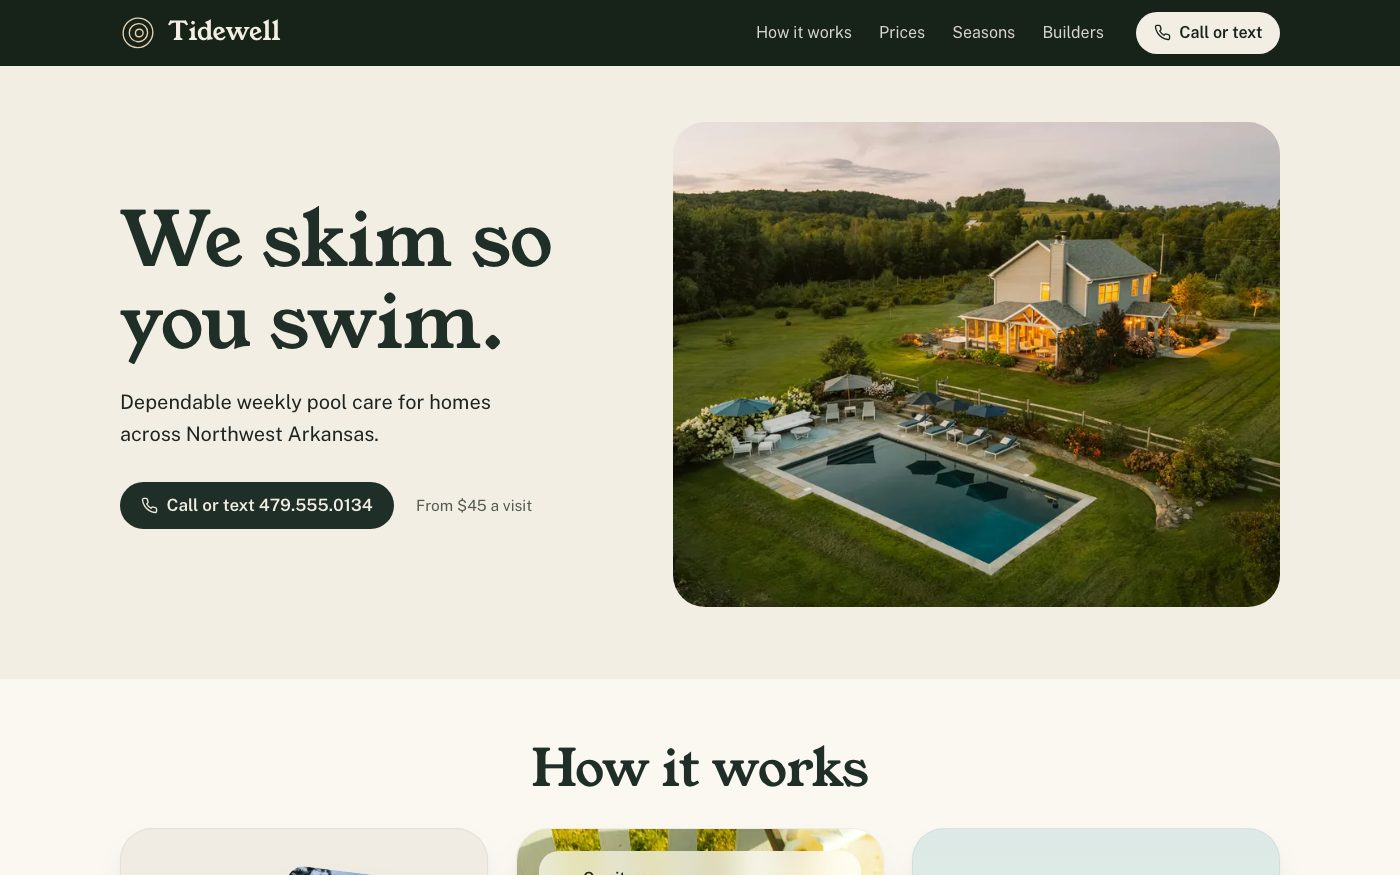
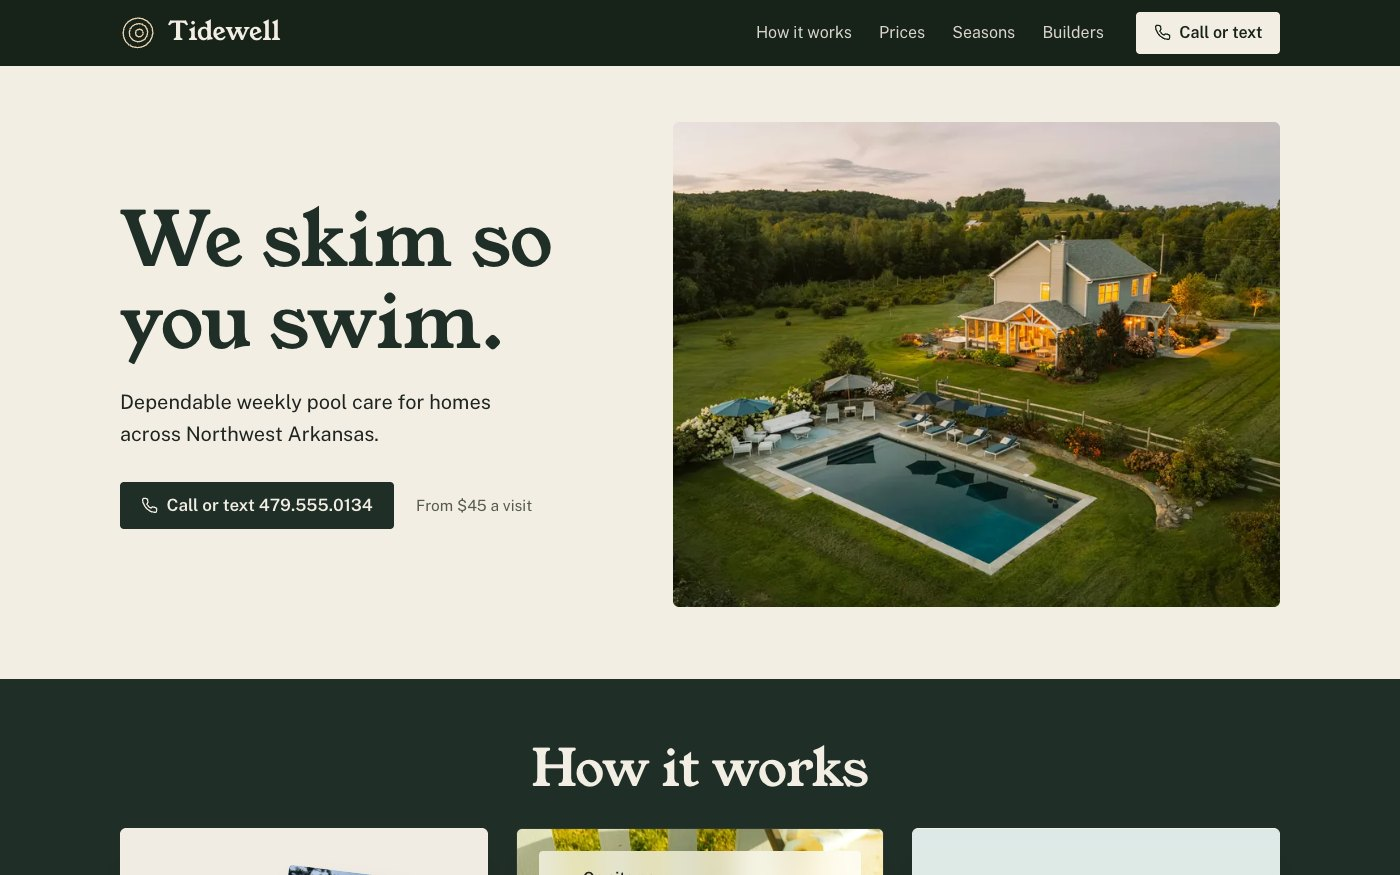
Tidewell demo: add-ons rate row, static centred season cards, text-left builders, dark green how-it-works and builders sections, squarer corners; refreshed thumbnail

diff --git a/demo/tidewell/index.html b/demo/tidewell/index.html
@@ -446,6 +446,83 @@ nav.main a:hover{color:#fff; text-decoration-color:#E6D2AE}
 @media(max-width:900px){.plans{grid-template-columns:minmax(0,1fr); max-width:420px}}
 .banner .btn-white{background:var(--forest); color:var(--limestone); box-shadow:0 10px 24px -14px rgba(30,36,31,.5)}
 .banner .btn-white:hover{background:var(--forest-2)}
+
+/* ---------- add-ons: a quiet rate row under the plans ---------- */
+.addons{max-width:980px; margin:min(1.8rem,3svh) auto 0; padding:0; display:grid; grid-template-columns:repeat(3,minmax(0,1fr)); gap:18px}
+.addons div{display:flex; flex-direction:column; align-items:center; gap:2px; padding-top:1rem; border-top:1px solid var(--line); text-align:center}
+.addons dt{font-size:15.5px; font-weight:600; color:var(--ink)}
+.addons dd{margin:0; font-size:15.5px; color:var(--muted)}
+@media(max-width:900px){
+  .addons{max-width:420px; grid-template-columns:minmax(0,1fr); gap:0; border-bottom:1px solid var(--line)}
+  .addons div{flex-direction:row; justify-content:space-between; padding:.8rem 0}
+}
+
+/* ---------- seasons: four cards, always centred ---------- */
+.year{overflow:visible}
+.season-grid{list-style:none; margin-block:0; padding:0; display:grid; grid-template-columns:repeat(4,minmax(0,1fr)); gap:20px; max-width:1160px}
+.season-grid .sc{width:auto; height:auto; aspect-ratio:4/5; transform:none; opacity:1; border-radius:28px; box-shadow:0 1px 2px rgba(30,36,31,.06), 0 18px 40px -22px rgba(30,36,31,.35)}
+.season-grid .sc-card{top:auto; bottom:14px; left:14px; right:14px; padding:14px 16px 13px; border-radius:18px}
+.season-grid .sc-title{font-size:17px}
+.season-grid .sc-desc{margin:.3rem 0 .6rem; font-size:14.5px; line-height:1.4}
+.season-grid .sc-when{font-size:13px}
+@media (min-width:901px){
+  .season-grid{--cw:min(100%, calc((100svh - 72px - 230px) * .8 * 4 + 60px))}
+  .season-grid{max-width:var(--cw)}
+}
+@media (prefers-reduced-motion:no-preference){
+  .js .season-grid > .rv:nth-child(2){transition-delay:.08s}
+  .js .season-grid > .rv:nth-child(3){transition-delay:.16s}
+  .js .season-grid > .rv:nth-child(4){transition-delay:.24s}
+}
+@media(max-width:900px){
+  .season-grid{grid-template-columns:repeat(2,minmax(0,1fr)); gap:14px; max-width:560px}
+  .season-grid .sc{aspect-ratio:3/4; border-radius:22px}
+}
+@media(max-width:560px){
+  .season-grid{gap:10px}
+  .season-grid .sc-card{left:8px; right:8px; bottom:8px; padding:10px 11px; border-radius:14px}
+  .season-grid .sc-title{font-size:15px; gap:7px}
+  .season-grid .sc-title svg{width:17px; height:17px}
+  .season-grid .sc-desc{font-size:13px; margin:.2rem 0 0}
+  .season-grid .sc-when{display:none}
+}
+
+/* ---------- dark green sections ---------- */
+.steps-sec,.builders{background:#1F2E26; color:#F3EEE4}
+.steps-sec .steps-head,.builders h2{color:#F3EEE4}
+.steps-sec .step-text{color:rgba(243,238,228,.7)}
+.steps-sec .step-text b{color:#F3EEE4}
+.steps-sec .step-tile{border-color:rgba(255,255,255,.06); box-shadow:0 22px 44px -26px rgba(0,0,0,.6)}
+.builders .intro{color:rgba(243,238,228,.74)}
+.builders .btn{background:#F3EEE4; color:#172219}
+.builders .btn:hover{background:#fff}
+
+/* ---------- builders: text left, photo right ---------- */
+.builders-grid{grid-template-columns:minmax(0,.9fr) minmax(0,1.1fr); gap:clamp(2.5rem,5vw,4.5rem)}
+.builders-grid > .builders-copy{text-align:left; align-items:flex-start}
+.builders .intro{margin-inline:0; max-width:30ch; font-size:19px}
+.builders h2{font-size:clamp(2.4rem,4.4vw,3.6rem)}
+.builders img{box-shadow:0 22px 44px -26px rgba(0,0,0,.6)}
+@media(max-width:900px){
+  .builders-grid{grid-template-columns:minmax(0,1fr)}
+  .builders-grid > .builders-copy{text-align:center; align-items:center}
+  .builders .intro{margin-inline:auto}
+}
+
+/* ---------- squarer corners: its own look, apart from the portfolio ---------- */
+.btn,.bar .btn,.mobile-nav a.btn{border-radius:4px}
+.navtoggle{border-radius:4px}
+.hero-photo img,.builders img,.step-tile,.plans li,.banner,.season-grid .sc{border-radius:6px}
+.glass-card,.ask-card,.report-card,.season-grid .sc-card,.photo-stack img{border-radius:4px}
+.sc-when span{border-radius:3px}
+
+.acc summary::after{border-radius:4px}
+@media(max-width:700px){.banner{border-radius:6px}}
+@media(max-width:900px){.season-grid .sc{border-radius:6px}}
+@media(max-width:560px){.season-grid .sc-card{border-radius:4px}}
+.season-grid .sc-when{flex-wrap:nowrap; gap:4px; font-size:12.5px; white-space:nowrap}
+.season-grid .sc-when span{padding:2px 6px}
+.steps-sec .step-tile{color:var(--ink)}
 </style>
 <noscript><style>.rv{opacity:1!important;transform:none!important}</style></noscript>
 </head>
@@ -554,7 +631,11 @@ nav.main a:hover{color:#fff; text-decoration-color:#E6D2AE}
       <li class="plan-pop"><p class="plan-name">Every two weeks</p><p class="plan-price">$65</p><p class="plan-for">Covered or light use</p></li>
       <li><p class="plan-name">Monthly</p><p class="plan-price">$95</p><p class="plan-for">Off-season</p></li>
     </ul>
-    <p class="extras-line rv">Spa +$15 · First clean from $150 · Green-to-clean from&nbsp;$150</p>
+    <dl class="addons rv">
+      <div><dt>Spa or hot tub</dt><dd>+$15 a visit</dd></div>
+      <div><dt>First clean</dt><dd>From $150</dd></div>
+      <div><dt>Green-to-clean</dt><dd>From $150</dd></div>
+    </dl>
 
   </div>
 </section>
@@ -562,36 +643,35 @@ nav.main a:hover{color:#fff; text-decoration-color:#E6D2AE}
 <!-- ============ SEASONS ============ -->
 <section class="year" id="year">
   <div class="wrap"><h2 class="rv">Through the year</h2></div>
-  <ol class="season-track rv" aria-label="Pool care through the year">
-      <li class="sc">
-        <img src="img/season-opening-900.webp" srcset="img/season-opening-560.webp 560w, img/season-opening-900.webp 900w" sizes="(max-width:700px) 80vw, 460px" alt="A garden pool with a split-rail fence and spring flowers" width="900" height="1125" loading="lazy" decoding="async">
-        <div class="sc-card"><p class="sc-title"><svg aria-hidden="true"><use href="#i-sun"/></svg>Opening</p><p class="sc-desc">Cover off, water balanced.</p><p class="sc-when"><svg aria-hidden="true"><use href="#i-repeat"/></svg>Repeats <span>every year</span> starting <span>March</span></p></div>
+  <ol class="season-grid wrap" aria-label="Pool care through the year">
+      <li class="sc rv">
+        <img src="img/season-opening-900.webp" srcset="img/season-opening-560.webp 560w, img/season-opening-900.webp 900w" sizes="(max-width:700px) 46vw, 290px" alt="A garden pool with a split-rail fence and spring flowers" width="900" height="1125" loading="lazy" decoding="async">
+        <div class="sc-card"><p class="sc-title"><svg aria-hidden="true"><use href="#i-sun"/></svg>Opening</p><p class="sc-desc">Cover off, water balanced.</p><p class="sc-when"><svg aria-hidden="true"><use href="#i-repeat"/></svg><span>Every year</span><span>From March</span></p></div>
       </li>
-      <li class="sc">
-        <img src="img/season-swim-900.webp" srcset="img/season-swim-560.webp 560w, img/season-swim-900.webp 900w" sizes="(max-width:700px) 80vw, 460px" alt="A clear pool below tall pines in summer" width="900" height="1125" loading="lazy" decoding="async">
-        <div class="sc-card"><p class="sc-title"><svg aria-hidden="true"><use href="#i-wave"/></svg>Swim season</p><p class="sc-desc">Weekly visits, all summer.</p><p class="sc-when"><svg aria-hidden="true"><use href="#i-repeat"/></svg>Repeats <span>every week</span> starting <span>May</span></p></div>
+      <li class="sc rv">
+        <img src="img/season-swim-900.webp" srcset="img/season-swim-560.webp 560w, img/season-swim-900.webp 900w" sizes="(max-width:700px) 46vw, 290px" alt="A clear pool below tall pines in summer" width="900" height="1125" loading="lazy" decoding="async">
+        <div class="sc-card"><p class="sc-title"><svg aria-hidden="true"><use href="#i-wave"/></svg>Swim season</p><p class="sc-desc">Weekly visits, all summer.</p><p class="sc-when"><svg aria-hidden="true"><use href="#i-repeat"/></svg><span>Every week</span><span>From May</span></p></div>
       </li>
-      <li class="sc">
-        <img src="img/season-leaves-900.webp" srcset="img/season-leaves-560.webp 560w, img/season-leaves-900.webp 900w" sizes="(max-width:700px) 80vw, 460px" alt="Oak leaves floating on dark pool water in fall" width="900" height="1125" loading="lazy" decoding="async">
-        <div class="sc-card"><p class="sc-title"><svg aria-hidden="true"><use href="#i-leaf"/></svg>Leaf season</p><p class="sc-desc">Netted before they stain.</p><p class="sc-when"><svg aria-hidden="true"><use href="#i-repeat"/></svg>Repeats <span>every visit</span> starting <span>October</span></p></div>
+      <li class="sc rv">
+        <img src="img/season-leaves-900.webp" srcset="img/season-leaves-560.webp 560w, img/season-leaves-900.webp 900w" sizes="(max-width:700px) 46vw, 290px" alt="Oak leaves floating on dark pool water in fall" width="900" height="1125" loading="lazy" decoding="async">
+        <div class="sc-card"><p class="sc-title"><svg aria-hidden="true"><use href="#i-leaf"/></svg>Leaf season</p><p class="sc-desc">Netted before they stain.</p><p class="sc-when"><svg aria-hidden="true"><use href="#i-repeat"/></svg><span>Every visit</span><span>From October</span></p></div>
       </li>
-      <li class="sc">
-        <img src="img/season-covered-900.webp" srcset="img/season-covered-560.webp 560w, img/season-covered-900.webp 900w" sizes="(max-width:700px) 80vw, 460px" alt="Snow on Adirondack chairs beside a pool in winter" width="900" height="1125" loading="lazy" decoding="async">
-        <div class="sc-card"><p class="sc-title"><svg aria-hidden="true"><use href="#i-snow"/></svg>Winter check</p><p class="sc-desc">Covered and freeze-checked.</p><p class="sc-when"><svg aria-hidden="true"><use href="#i-repeat"/></svg>Repeats <span>every month</span> starting <span>December</span></p></div>
+      <li class="sc rv">
+        <img src="img/season-covered-900.webp" srcset="img/season-covered-560.webp 560w, img/season-covered-900.webp 900w" sizes="(max-width:700px) 46vw, 290px" alt="Snow on Adirondack chairs beside a pool in winter" width="900" height="1125" loading="lazy" decoding="async">
+        <div class="sc-card"><p class="sc-title"><svg aria-hidden="true"><use href="#i-snow"/></svg>Winter check</p><p class="sc-desc">Covered and freeze-checked.</p><p class="sc-when"><svg aria-hidden="true"><use href="#i-repeat"/></svg><span>Every month</span><span>From December</span></p></div>
       </li>
   </ol>
-  <div class="dots" role="tablist" aria-label="Choose a season"><button type="button" aria-label="Opening"></button><button type="button" aria-label="Swim season"></button><button type="button" aria-label="Leaf season"></button><button type="button" aria-label="Winter check"></button></div>
 </section>
 
 <!-- ============ BUILDERS ============ -->
 <section class="builders" id="builders">
   <div class="wrap builders-grid">
-    <img class="rv" src="img/builder-home-pool-1400.webp" srcset="img/builder-home-pool-800.webp 800w, img/builder-home-pool-1400.webp 1400w" sizes="(max-width:1000px) calc(100vw - 40px), 48vw" alt="A two-story home above its lit pool and lawn at dusk" width="1400" height="1050" loading="lazy" decoding="async">
-    <div>
+    <div class="builders-copy">
       <h2 class="rv">For builders</h2>
       <p class="intro rv">Start-ups, spec homes and community pools across Benton&nbsp;County.</p>
       <a class="btn" href="tel:+14795550134"><svg aria-hidden="true"><use href="#i-phone"/></svg>Call about builder rates</a>
     </div>
+    <img class="rv" src="img/builder-home-pool-1400.webp" srcset="img/builder-home-pool-800.webp 800w, img/builder-home-pool-1400.webp 1400w" sizes="(max-width:1000px) calc(100vw - 40px), 48vw" alt="A two-story home above its lit pool and lawn at dusk" width="1400" height="1050" loading="lazy" decoding="async">
   </div>
 </section>
 
@@ -640,22 +720,6 @@ nav.main a:hover{color:#fff; text-decoration-color:#E6D2AE}
   mobileNav.addEventListener('click', function(ev){ if (ev.target.closest('a')) setNav(false); });
   document.addEventListener('keydown', function(ev){ if (ev.key === 'Escape') setNav(false); });
   window.addEventListener('resize', function(){ if (window.innerWidth > 1000) setNav(false); });
-  /* seasons carousel: active card follows the scroll, dots jump to a card */
-  var track = document.querySelector('.season-track');
-  if (track){
-    var cards = [].slice.call(track.children), dots = [].slice.call(document.querySelectorAll('.dots button'));
-    var setActive = function(){
-      var mid = track.scrollLeft + track.clientWidth/2, best = 0, bd = 1e9;
-      cards.forEach(function(c,i){ var d = Math.abs(c.offsetLeft + c.offsetWidth/2 - mid); if (d < bd){ bd = d; best = i; } });
-      cards.forEach(function(c,i){ c.classList.toggle('is-active', i === best); });
-      dots.forEach(function(b,i){ b.setAttribute('aria-selected', i === best ? 'true' : 'false'); });
-    };
-    dots.forEach(function(b,i){ b.addEventListener('click', function(){ var c = cards[i]; track.scrollTo({ left: c.offsetLeft - (track.clientWidth - c.offsetWidth)/2, behavior:'smooth' }); }); });
-    track.addEventListener('scroll', function(){ window.requestAnimationFrame(setActive); }, { passive:true });
-    window.addEventListener('resize', setActive);
-    var start = cards[1]; if (start) track.scrollLeft = start.offsetLeft - (track.clientWidth - start.offsetWidth)/2;
-    setActive();
-  }
   /* scroll reveal */
   var rvs = document.querySelectorAll('.rv');
   if ('IntersectionObserver' in window && !window.matchMedia('(prefers-reduced-motion: reduce)').matches){

diff --git a/index.html b/index.html
@@ -152,13 +152,13 @@
     <div class="client-feature reveal">
       <!-- Preview: a still of the site (no iframe, nothing to load or scroll
            by accident). "Try it live" opens the real site full-screen. -->
-      <figure class="site-preview" data-src="demo/tidewell/?v=22"
+      <figure class="site-preview" data-src="demo/tidewell/?v=23"
               data-name="Tidewell Pool Care">
         <div class="sp-chrome" aria-hidden="true">
           <span class="sp-dot"></span><span class="sp-dot"></span><span class="sp-dot"></span>
         </div>
         <div class="sp-stage">
-          <img class="sp-shot" src="images/demo-tidewell-desktop.jpg?v=22" alt="Tidewell Pool Care website home page" width="1400" height="875" loading="lazy" decoding="async">
+          <img class="sp-shot" src="images/demo-tidewell-desktop.jpg?v=23" alt="Tidewell Pool Care website home page" width="1400" height="875" loading="lazy" decoding="async">
           <button type="button" class="sp-open" aria-label="Explore the Tidewell website live"></button>
         </div>
       </figure>
